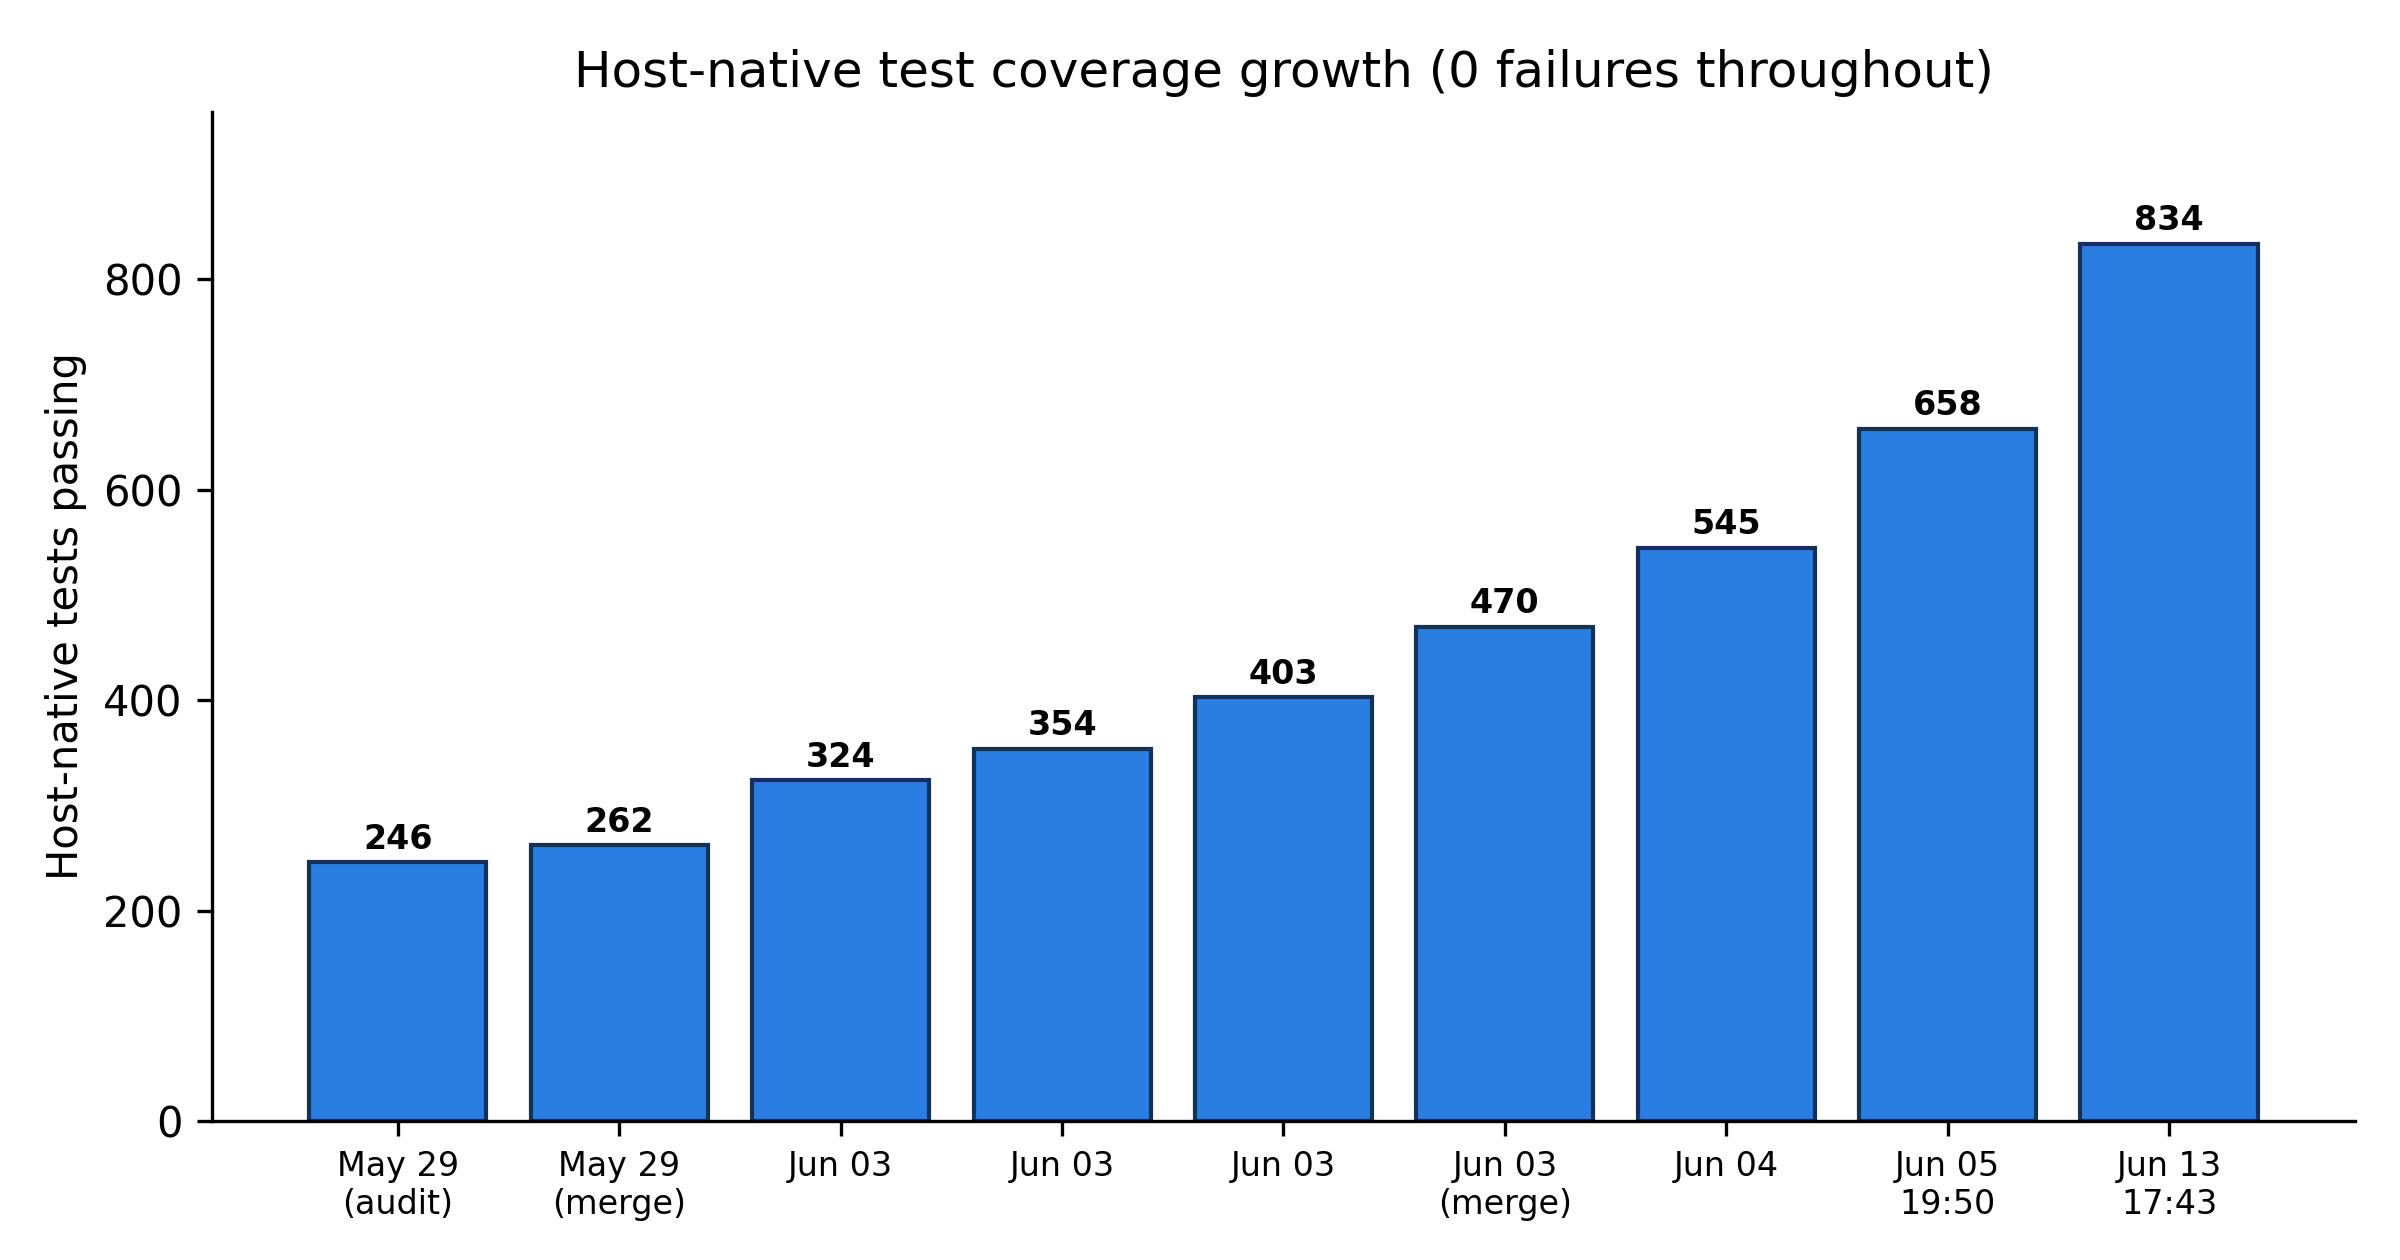
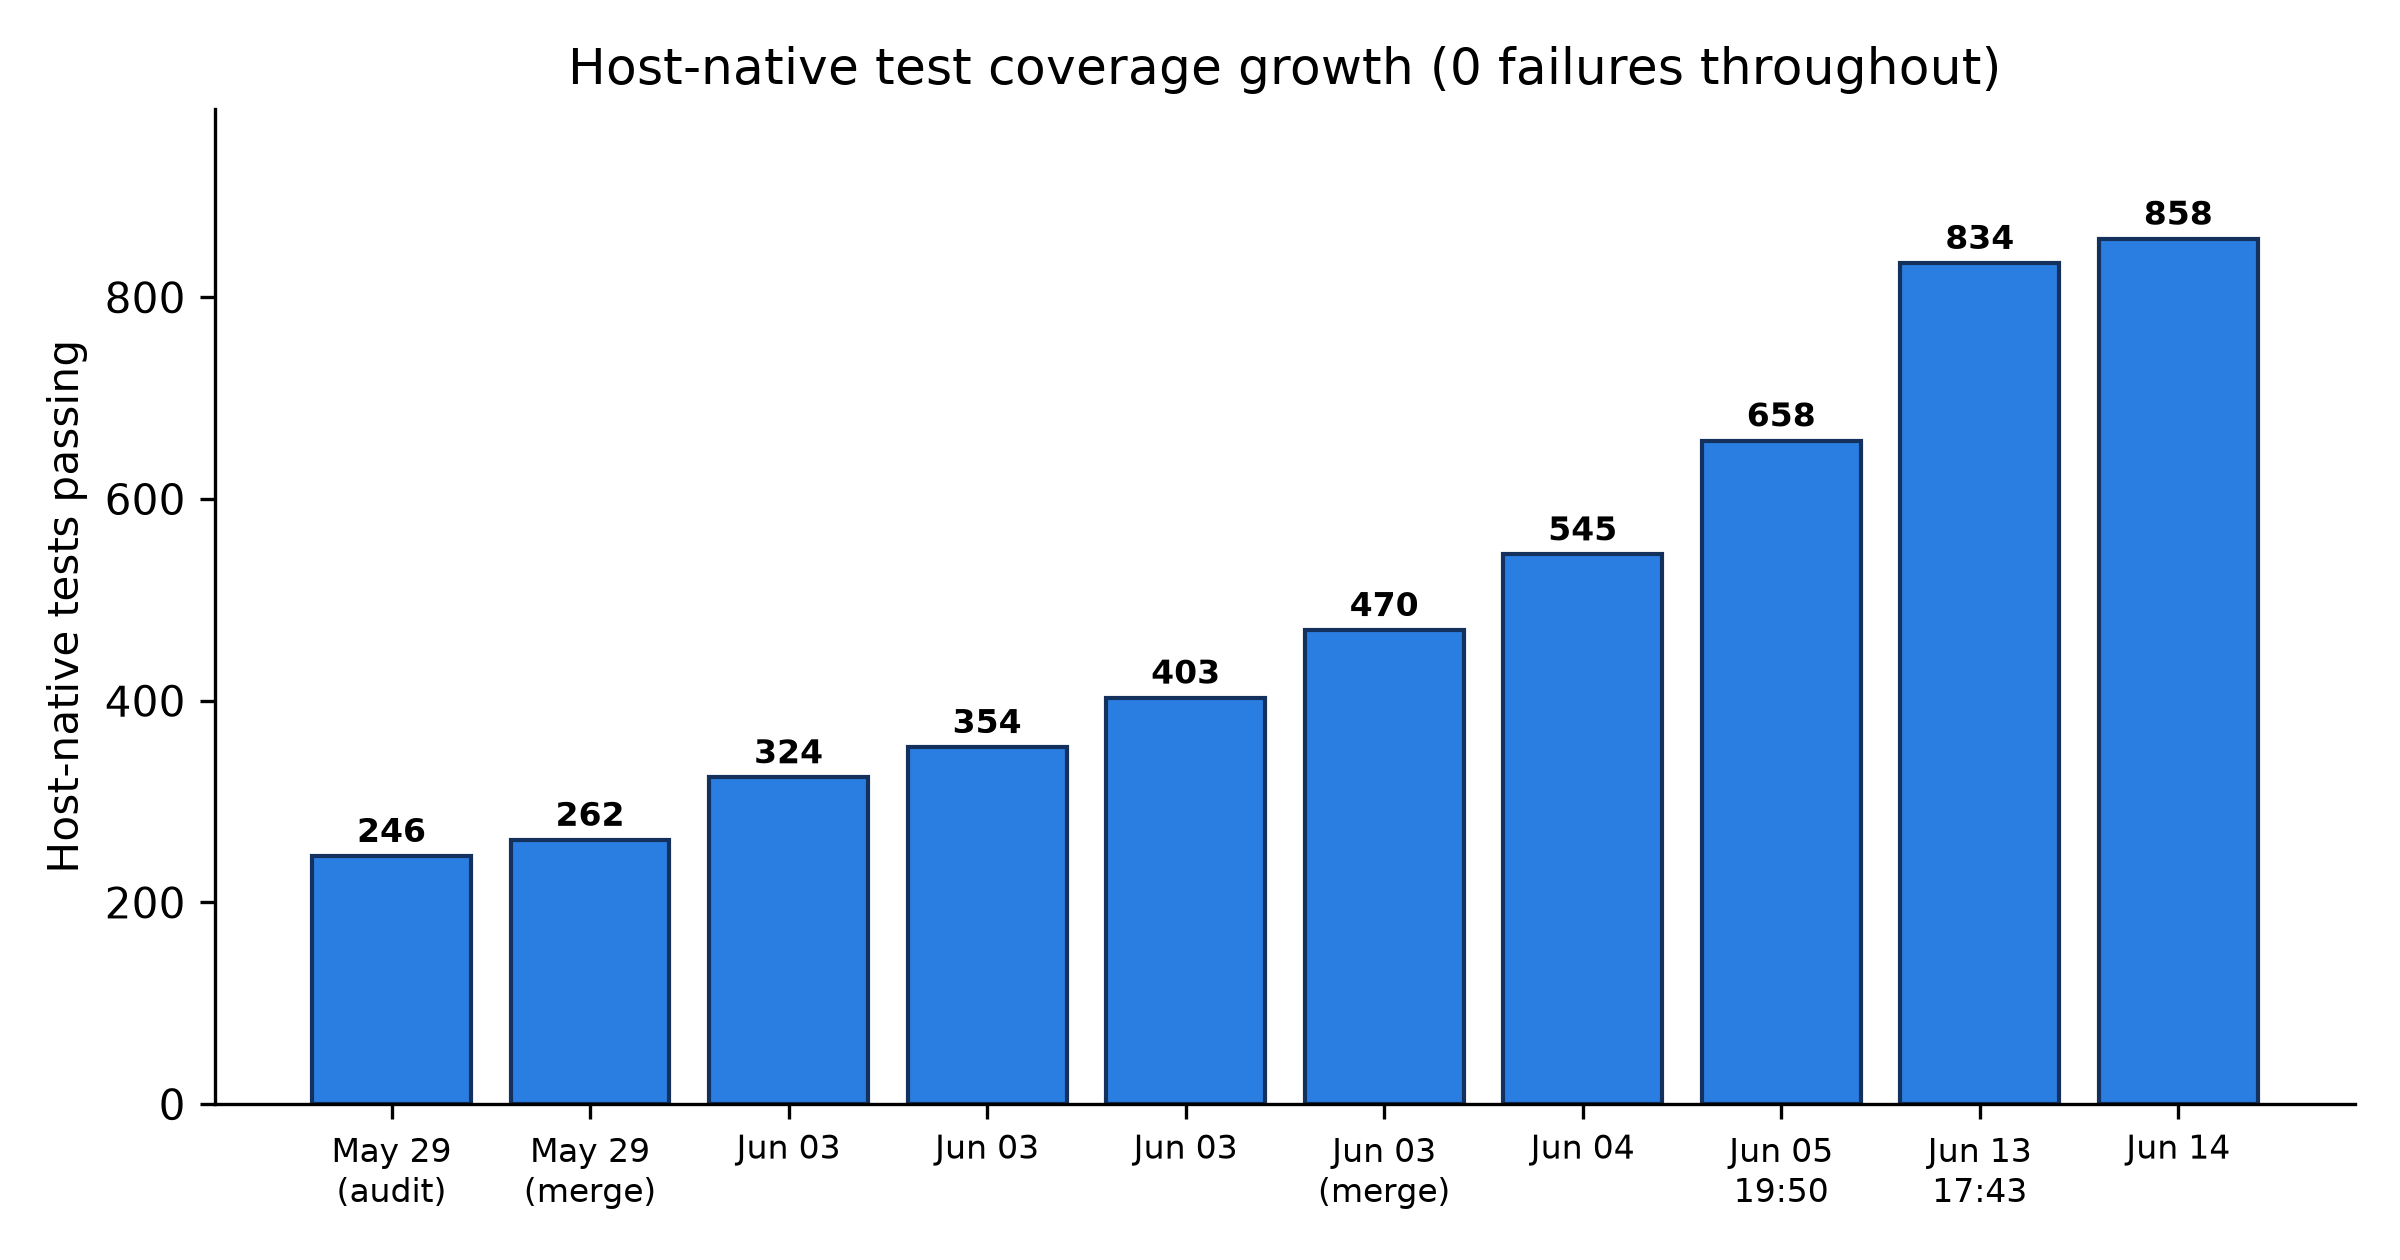
docs(competencia): Fig.8 al día — milestone 858 + regenerar figura
Agrega ("Jun 14", 858) a TEST_MILESTONES en gen_figuras.py y regenera
fig8_test_growth.png para que coincida con la cadena canónica del TDP
(246 → ... → 834 → 858, medido 2026-06-14 con scripts/run-host-tests.sh).
No se tocan los milestones anteriores (historia con fecha).

Author: Claude Opus 4.8 (Anthropic)
Requested-by: Gustavo Viollaz

Changed region(s): [[0.0, 0.0929, 1.0, 0.9595], [0.2188, 0.031, 0.8438, 0.0929]]

diff --git a/docs/competencia/assets/gen_figuras.py b/docs/competencia/assets/gen_figuras.py
@@ -30,8 +30,9 @@ HERE = os.path.dirname(os.path.abspath(__file__))
 # Datos DOCUMENTADOS en el repo (ESTADO-ACTUAL.md + MEMORY + run-host-tests.sh):
 #   246 y 262 = 2026-05-29 ; 324/354/403 = 2026-06-03 ; 470 = merge 2026-06-03 ;
 #   545 = 2026-06-04 (40 suites) ; 658 = 2026-06-05 19:50 ; 834 = 2026-06-13 17:43 ART
-#   (60 suites / 0 fallos, vía scripts/run-host-tests.sh — CIFRA VIVA: crece cada
-#   sesión, RE-MEDIR antes de imprimir/grabar y actualizar este punto + la fecha).
+#   (60 suites) ; 858 = 2026-06-14 (61 suites / 0 fallos, vía scripts/run-host-tests.sh
+#   — CIFRA VIVA: crece cada sesión, RE-MEDIR antes de imprimir/grabar y actualizar
+#   este punto + la fecha).
 # ============================================================================
 TEST_MILESTONES = [
     ("May 29\n(audit)", 246),
@@ -43,6 +44,7 @@ TEST_MILESTONES = [
     ("Jun 04", 545),
     ("Jun 05\n19:50", 658),
     ("Jun 13\n17:43", 834),
+    ("Jun 14", 858),
 ]
 
 def fig8():
